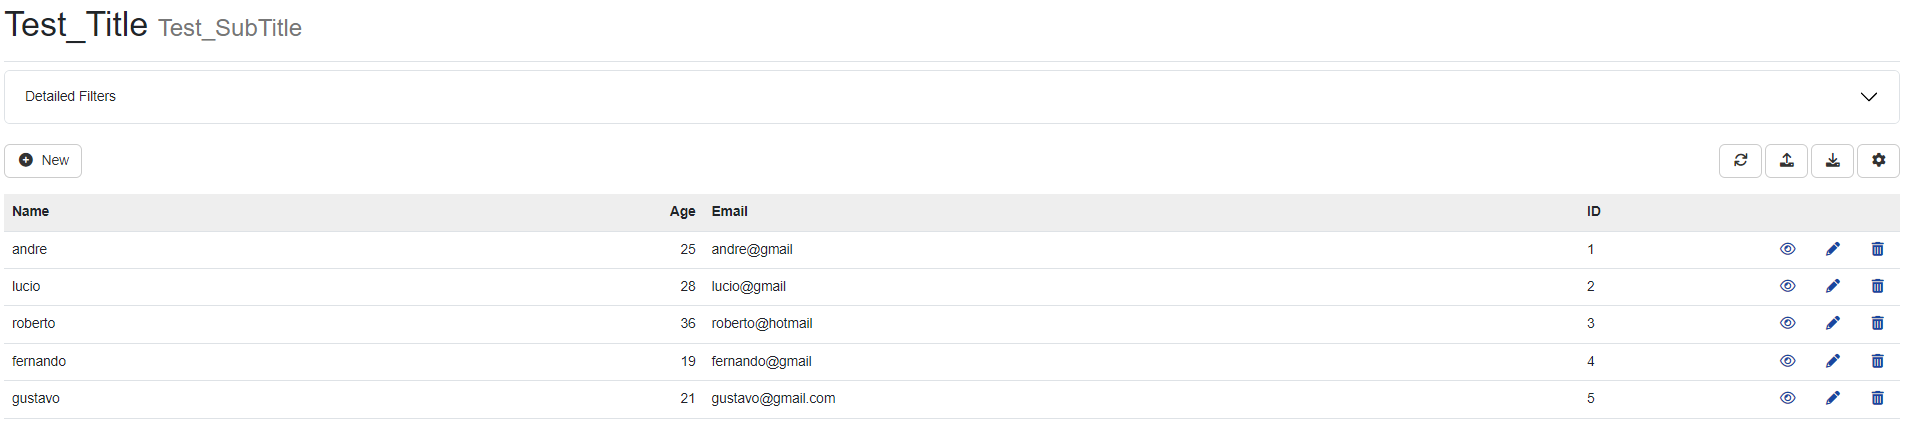
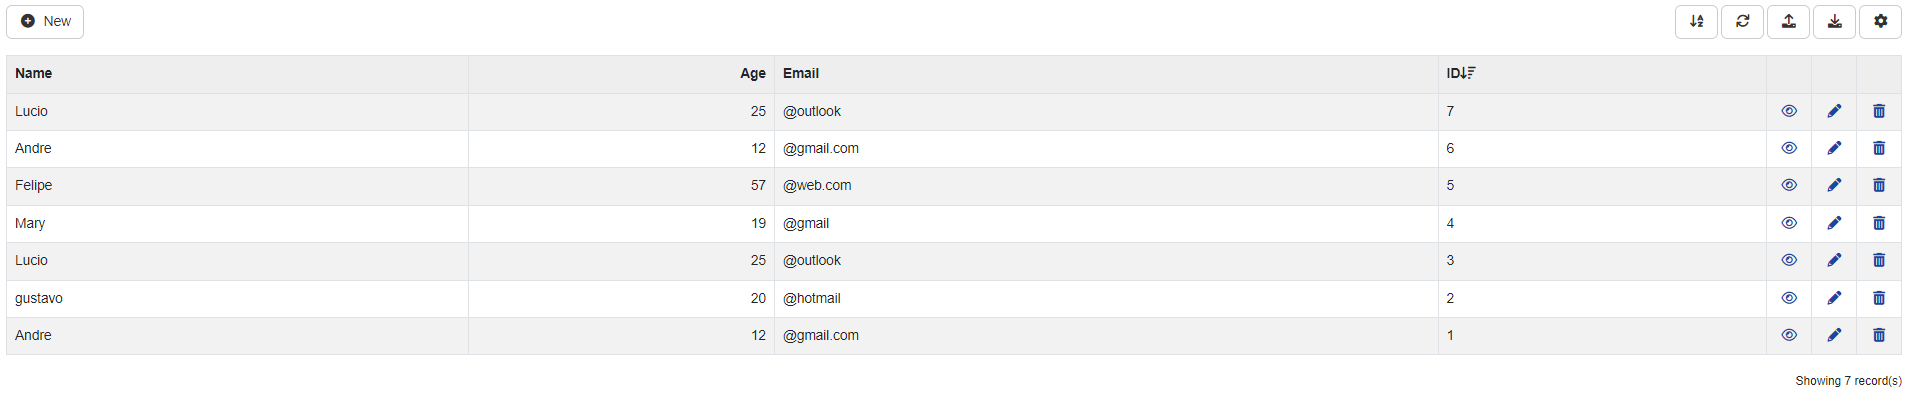
add images and changes in doc

diff --git a/doc/JJMasterData.Documentation/articles/tutorials/creating_data_dictionary.md b/doc/JJMasterData.Documentation/articles/tutorials/creating_data_dictionary.md
@@ -11,37 +11,35 @@ O ícone New irá permitir que você faça a criação das suas tabelas de acord
 
 Com o JJMasterData será possível fazer a importação ou criação da sua tabela e a organização da mesma para dicionários e posteriormente exibidos em metadados.
 
-TUTORIAL SEM TABELA
-
 Para a criação da estrutura de dados direto pelo JJMasterData será necessário deixar o campo “import field” desmarcado, inserir o nome da tabela a ser criada e clicar em Next. Preenchido o campo Table Name e clicado em Next, você irá acessar a janela de Entidade. Aqui você irá encontra os seguintes itens:
 
-**Entity**
+## **Entity**
 
-- *Dictionary name:*  Será o nome que irá representar o seu metadado.
+- Dictionary name:  Será o nome que irá representar o seu metadado.
 	
-- *Table Name:* Nome da tabela onde seus dados ficarão armazenados.
+- Table Name: Nome da tabela onde seus dados ficarão armazenados.
 
-- *Get procedure Name:*  Nome da procedure que Irá realizar a leitura dos dados. Você poderá visualizar a procedure criada clicando em *more*, *Get Script* e depois *Get Procedure*.
+- Get procedure Name: Nome da procedure que Irá realizar a leitura dos dados. Você poderá visualizar a procedure criada clicando em *more*, *Get Script* e depois *Get Procedure*.
 
-- *Set Procedure Name:* Nome da procedure que Irá realizar aescrita dos dados. Você poderá visualizar a procedure criada clicando em *more*, *Get Script* e depois *Set Procedure*.
+- Set Procedure Name: Nome da procedure que Irá realizar aescrita dos dados. Você poderá visualizar a procedure criada clicando em *more*, *Get Script* e depois *Set Procedure*.
 
-- *Title:*  Aqui você irá preencher com o título que será exibido dentro do Form. Será possível habilitar ou não a visualização do título através das configurações internas.
+- Title:  Aqui você irá preencher com o título que será exibido dentro do Form. Será possível habilitar ou não a visualização do título através das configurações internas.
 
-- *Subtitle:* Aqui você irá preencher com o subtítulo que será exibido dentro do Form. Da mesma forma que o title, o subtitle também poderá ser habilitado ou não.
+- Subtitle: Aqui você irá preencher com o subtítulo que será exibido dentro do Form. Da mesma forma que o title, o subtitle também poderá ser habilitado ou não.
 
-- *Info:* Informações fixas que irão ser mostradas para o desenvolvedor que esteja desenvolvendo a aplicação.
+- Info: Informações fixas que irão ser mostradas para o desenvolvedor que esteja desenvolvendo a aplicação.
 
-**Fields**
+## **Fields**
 
 O próximo passo é acessar o campo Fields, local aonde você poderá preencher e formatar os dados que irão ser exibidos na criação da nova tabela a partir dos metadados. É obrigatório o preenchimento dos seguintes campos: FieldName, Filter, DataBehavior, Data Type, Size,  Required, Pk, Identify.
 
-- *FieldName:* Este nome será apresentado somente dentro do banco de dados, será relacionado somente dentro do banco, não será exibido ao usuário final.
+- FieldName: Este nome será apresentado somente dentro do banco de dados, será relacionado somente dentro do banco, não será exibido ao usuário final.
 
-- *Label:* Este campo deve ser preenchido de acordo com o nome que deseja ser exibido no título da coluna, por exemplo, caso seja uma coluna de emails, o título deverá conter esse nome ou algo que tenha relação.
+- Label: Este campo deve ser preenchido de acordo com o nome que deseja ser exibido no título da coluna, por exemplo, caso seja uma coluna de emails, o título deverá conter esse nome ou algo que tenha relação.
 
-- *DafaultValue:* Uma expressão que irá retornar um valor padrão caso o valor dentro do banco de dados seja nulo.
+- DafaultValue: Uma expressão que irá retornar um valor padrão caso o valor dentro do banco de dados seja nulo.
 
-- *Filter:* Campo que indica um tipo de filtro que será executado na procedure de get
+- Filter: Campo que indica um tipo de filtro que será executado na procedure de get
 
 - *DataBehavior:* Comportamento de dados
 
@@ -65,7 +63,7 @@ O próximo passo é acessar o campo Fields, local aonde você poderá preencher 
 
 Após o preenchimento de todos os itens obrigatórios em Fields, você deverá executar outra ação antes da tabela ser definitivamente  criada. Com todos os campos obrigatórios preenchidos você irá acessar a opção More na lateral direita da tela e clicar em Get Script, dessa forma os dados preenchidos na aba Fields serão convertidos para um script SQL e será exibido para você. Após a exibição dos scripts, você terá a opção de executar a stored procedure, caso não haja procedures a serem executadas, basta clicar em Run All e salvar a página clicando na parte inferior. Pronto, agora sua tabela está criada. Ao clicar no botão Exit, ao lado do botão Entidade, você poderá retornar ao local onde as tabelas estão sendo exibidas. Ao localizar a sua tabela, clique no ícone a direita ao lado do botão de editar, assim você irá visualizar o botão Render, ele permitirá que você veja como será a exibição final.
 
-**Panels**
+## **Panels**
      Permite separar os campos do dicionários em paineis. Mas somente para as ações de adicionar, editar e visualizar.
 
 - General
@@ -78,10 +76,10 @@ Após o preenchimento de todos os itens obrigatórios em Fields, você deverá e
     - Enable Expression: seeref
     - CssClass: Classe Css do campo.
 
-**Indexes and Relationships**
+## **Indexes and Relationships**
 -Ambos os itens serão utilizados para gerar informações dos seus metadados. Você poderá adicionar essas informações clicando no botão *New*.
 
-**Actions**
+## **Actions**
 - Grid
     - View: Este ícone será exibido ao lado dos itens de sua tabela, é possível encontra-lo ao utilizar a visualização prévia de sua tabela. Ao clicar no botão *View*, será exibido a linha escolhida de forma detalhada.
     - Edit: Este ícone será exibido ao lado dos itens de sua tabela, é possível encontra-lo ao utilizar a visualização prévia de sua tabela. Ao clicar no botão *Edit*, será possível alterar informarções já registradas anteriormente em sua tabela de dados.
@@ -97,12 +95,12 @@ Após o preenchimento de todos os itens obrigatórios em Fields, você deverá e
     - Filter: Mostra todas as opções de filtro para busca de itens dentro da tabela.
     - Log: Registra e exibe as ações feitas dentro da tabela, sendo adicionar, editar e deletar.
 
-**API**
+## **API**
 
 - Dentro desta aba será possível editar cada verbo responsável pelas permissões http dentro da REST API.
-    - ApplyUseridOn:
+    - ApplyUseridOn: Nome do campo em que o filtro de ID do usuário será aplicado.
     - JsonFormat: Está opção irá definir e modificar a formatação do arquivo Json. Ao utilizar a opção default, ficará definido o padrão já escolhido pelo usuário, entretando a opção LowerCase irá formatar o arquivo para letras minúsculas.
-    - Sync:
+    - Sync: Está opção habilita ou desabilita o dicionário da REST API.
 
 
 

diff --git a/doc/JJMasterData.Documentation/articles/tutorials/configs.md b/doc/JJMasterData.Documentation/articles/tutorials/configs.md
@@ -1,64 +1,63 @@
-**ShowTitle:** Show title in page header
+# Options
+
+## **ShowTitle:** Show title in page header
 A ativação dessa configuração permitirá a exibição do título e subtítulo preenchidos dentro da aba Entity
 
-ShowTitleON.png
-ShowTitleOFF.png
+![ShowTitleOn](../../media/ShowTitleON.png)
+![ShowTitleOFF](../../media/ShowTitleOFF.png)
 
-**Enable MultiSelect:**
+## **Enable MultiSelect:**
 Nesta opção será necessário que você selecione uma Chave primária para utiliza-lo.
 
-EnableMultiSelectON.png
-EnableMultiSelectOFF.png
+![EnableMultiSelectON.png](../../media/EnableMultiSelectON.png)
+![EnableMultiSelectOFF.png](../../media/EnableMultiSelectOFF.png)
 
-**ShowRowStriped:**
+## **ShowRowStriped:**
 Ao ativar está opção, a grid da sua tabela será exibida de forma zebrada.
 
-CfgShowRowStripeON.png - verificar a ativação da config
-CfgShowRowStripeOFF.png
+![ShowRowStripeON.png](../../media/ShowRowStripedON.png)
+![ShowRowStripeOFF.png](../../media/ShowRowStripedOFF.png)
 
-**ShowPagging:**
+## **ShowPagging:**
 Dentro das configurações para sua tabela, Irá habilitar a opção para mudar a quantidade de itens a serem exibidos.
 
-ShowPaggingON.png
-ShowPaggingOFF.png
+![ShowPaggingON.png](../../media/ShowPaggingON.png)
+![ShowPaggingOFF.png](../../media/ShowPaggingOFF.png)
 
-**ShowHeaderWhenEmpty:**
+## **ShowHeaderWhenEmpty:**
 Define se será exibido o cabeçalho quando não há resposta de nenhum item dentro da tabela
 
-ShowHeaderWhenEmptyON.png
-ShowHeaderWhenEmptyOFF.png 
+![ShowHeaderWhenEmptyON.png](../../media/ShowHeaderWhenEmptyON.png)
+![ShowHeaderWhenEmptyOFF.png](../../media/ShowHeaderWhenEmptyOFF.png)
 
-**Header Fixed:**
+## **Header Fixed:**
 Irá manter o cabeçalho fixo ao visualizar os itens mais abaixos
 
-Aguardar corrigir o problema de upload para testar
+Verificar e publicar
 
-**EnableAjax:**
+## **EnableAjax:**
 
 //
 
-**MaintainValuesOnLoad:**
-Essa opção irá garantir que a sua busca através do filtro seja salva ao recarregar a página.
+## **MaintainValuesOnLoad:**
+Essa opção irá garantir que a sua busca através do filtro seja salva ao recarregar a página, sendo busca de filtros ou opções de configurações.
 
-MaintainValuesOnLoadON.png
+![MaintainValuesOnLoadON.png](../../media/MaintainValuesOnLoadON.png)
 
-**ShowBorder:**
+## **ShowBorder:**
 Está configuração será utilizada para  exibir a delimitação em volta dos itens presentes na tabela.
 
-Dúvida: Configurações que possuem ativação interna e via preview, qual deve ser respeita? Uma irá influenciar na outra?
+![ShowBorderON.png](../../media/ShowBorderON.png)
+![ShowBorderOFF.png](../../media/ShowBorderOFF.png)
 
-ShowBorderON.png
-ShowBorderOFF.png
+## **EnableSorting:**
+Está configuração irá permitir que os itens da sua tabela sejam ordenados de crescente ou descrecente.
 
-**EnableSorting:**
-Está configuração irá permitir que o título seja exibido para maior organização e ordenação.
+![EnableSortingON.png](../../media/EnableSortingON.png)
+![EnableSortingOFF.png](../../media/EnableSortingOFF.png)
 
-Verificar a funcionalidade se está 100% - precisará refazer a imagens ON
-EnableSortingON.png
-EnableSortingOFF.png
+## **ShowToolbar:**
+A ativação da configuração de ShowToolbar irá habilitar o menu de opções na parte superior da sua tabela. Os itens a serem adicionados ou removidos podem ser visualizados dentro de aba *Action* e em seguida *Toolbar*
 
-**ShowToolbar:**
-A ativação da configuração de ShowToolbar irá habilitar o menu de opções na parte superior da sua tabela. Os itens a serem adicionados e removidos serão refresh, import, export e options.
-
-ShowToolbarON.png
-ShowToolbarOFF.png
+![ShowToolbarON.png](../../media/ShowToolbarON.png)
+![ShowToolbarOFF.png](../../media/ShowToolbarOFF.png)
